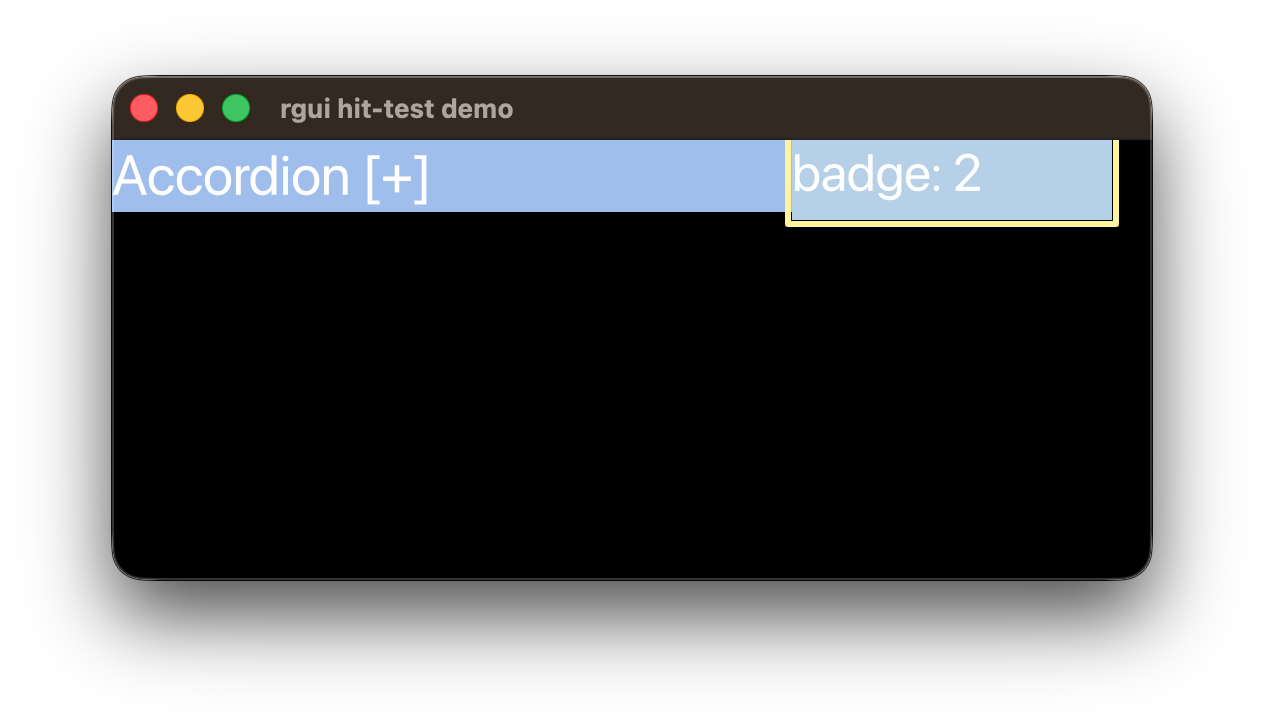
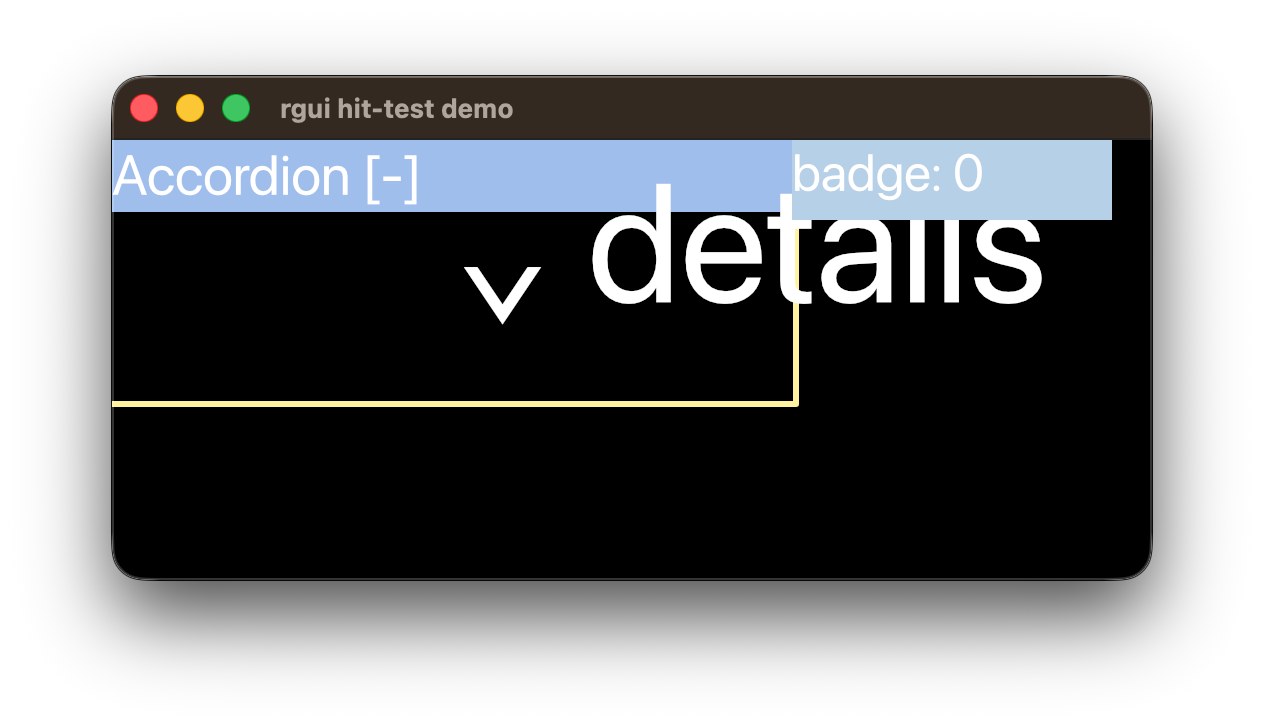
test(rgui): D21-2 分层诊断脚本自检资产入库(窗口定位/Quartz探测/模态点击辅助) + rgui_input_test.py D22 strip适配 + d21_t1 截图

diff --git a/tools/qa/rgui_input_test.py b/tools/qa/rgui_input_test.py
@@ -103,7 +103,12 @@ def read_log(path):
     if not path or not os.path.exists(path):
         return ""
     with open(path, "r", encoding="utf-8", errors="replace") as f:
-        return f.read()
+        text = f.read()
+    # D22：剥 tracing 前缀（若含），保持现有正则零改动。无前缀则 no-op。
+    if text.splitlines() and re.search(r'rgui_test_signal|INFO|WARN|ERROR.*\b', text.splitlines()[0]):
+        stripped = "\n".join(_strip_tracing(l) for l in text.splitlines())
+        return stripped
+    return text
 
 
 # ---------------- 窗口定位 + 激活/raise ----------------
@@ -205,6 +210,28 @@ def tab_key(shift=False):
 
 
 # ---------------- 分层诊断（核心） ----------------
+# D22 tracing 前缀剥离（可选：dev 用 tracing info!(target="rgui_test_signal", message=<token>)
+# 且 fmt 渲染含级别/时间戳前缀时启用；若 message=原 token 零前缀则此函数 no-op）。
+# 集中在此，不扩散到各 parse（保持 detect_layer 等正则零改动）。
+import re as _re
+_TRACING_RE = _re.compile(r'^.*?(?:rgui_test_signal|rgui)\s*[:=]\s*')  # 剥 "2026-.. INFO rgui_test_signal: message=" 前缀
+
+
+def _strip_tracing(line):
+    """剥掉 tracing fmt 前缀（时间戳/级别/target: message=），保留 message 原文供现有正则匹配。
+    若 line 不含前缀则原样返回（零改动路径 no-op）。"""
+    if not line:
+        return line
+    m = _re.match(r'^(?:\d{4}-\d{2}-\d{2}.*?)?(?:TRACE|DEBUG|INFO|WARN|ERROR)\S*\s*(?:\w*[_\w]*\s*[:=]\s*)*', line)
+    if m:
+        return line[m.end():]  # 剥到 message 正文
+    # 兜底：剥 "rgui_test_signal:" / "target=..:" 前缀
+    m2 = _re.match(r'^.*?(?:rgui_test_signal|message)[:=]\s*', line)
+    if m2:
+        return line[m2.end():]
+    return line
+
+
 # 按 fail_layer 生成纯文本排查建议（P2-3：建议无论如何不悬空）
 SUGGEST_BY_LAYER = {
     "L1": "脚本环境问题：检查 AXIsProcessTrusted() 是否授权(系统设置→隐私与安全→辅助功能)；CoreGraphics 是否可加载(依赖 ApplicationServices)；确认不是脚本运行环境问题。",

diff --git a/tools/qa/d21_modal_click.py b/tools/qa/d21_modal_click.py
@@ -1,0 +1,30 @@
+#!/usr/bin/env python3
+# 独立测 d20_modal: 激活 + 点 modal 按钮中心(rect 400,0,400,60 => 逻辑(600,30)) + 读日志
+import ctypes, sys, time, re, subprocess
+sys.path.insert(0, "tools/qa")
+import rgui_input_test as R
+
+pid = 4625
+print("activate:", R.activate_app(pid), "raise:", R.raise_window(pid))
+time.sleep(0.6)
+
+# 读 hit-region modul + win-frame
+log = open("/tmp/rgui_modal.log").read()
+mf = re.search(r'\[win-frame\] origin=\(([-0-9.]+),\s*([-0-9.]+)\) size=\(([-0-9.]+),\s*([-0-9.]+)\) scale=([-0-9.]+)', log)
+mr = re.search(r'id=200 modal rect=\(([-0-9.]+),\s*([-0-9.]+),\s*([-0-9.]+),\s*([-0-9.]+)\)', log)
+print("win-frame:", mf.groups() if mf else "none", "modal rect:", mr.groups() if mr else "none")
+ox, oy, sw, sh, scale = [float(x) for x in mf.groups()]
+rx, ry, rw, rh = [float(x) for x in mr.groups()]
+cx, cy = rx + rw/2.0, ry + rh/2.0
+# 用 to_screen 逻辑: bounds + titlebar + rect中心(point)
+bounds = (700.0, 207.0, 520.0, 252.0)
+wf = {"origin": (ox, oy), "size": (sw, sh), "scale": scale}
+pt = R.to_screen(wf, {"center": (cx, cy)}, bounds)
+print(f"modal center 逻辑({cx},{cy}) -> screen point {pt}")
+start = len(open("/tmp/rgui_modal.log").read().splitlines())
+R.click_at(pt)
+time.sleep(0.6)
+new = open("/tmp/rgui_modal.log").read().splitlines()[start:]
+print("=== 点击后新增 ===")
+for n in new:
+    print(" ", n)

diff --git a/tools/qa/d21_modal_owner.py b/tools/qa/d21_modal_owner.py
@@ -1,0 +1,10 @@
+import Quartz
+wins = Quartz.CGWindowListCopyWindowInfo(
+    Quartz.kCGWindowListOptionOnScreenOnly | Quartz.kCGWindowListExcludeDesktopElements,
+    Quartz.kCGNullWindowID)
+for w in wins:
+    n = str(w.get("kCGWindowOwnerName", ""))
+    if "modal" in n or "d20" in n:
+        b = w["kCGWindowBounds"]
+        print("owner:", n, "id:", w.get("kCGWindowNumber"), "pid:", w.get("kCGWindowOwnerPID"),
+              "bounds:", b["X"], b["Y"], b["Width"], b["Height"])

diff --git a/tools/qa/d21_check_quartz.py b/tools/qa/d21_check_quartz.py
@@ -1,0 +1,11 @@
+import Quartz, AppKit
+print("Quartz/AppKit OK")
+# 试读窗口
+wins = Quartz.CGWindowListCopyWindowInfo(
+    Quartz.kCGWindowListOptionOnScreenOnly | Quartz.kCGWindowListExcludeDesktopElements,
+    Quartz.kCGNullWindowID)
+for w in wins:
+    if "window_demo" in str(w.get("kCGWindowOwnerName", "")):
+        b = w["kCGWindowBounds"]
+        print("bounds:", b["X"], b["Y"], b["Width"], b["Height"], "pid:", w.get("kCGWindowOwnerPID"))
+        break

diff --git a/tools/qa/d21_get_winid.py b/tools/qa/d21_get_winid.py
@@ -1,0 +1,8 @@
+import Quartz
+wins = Quartz.CGWindowListCopyWindowInfo(
+    Quartz.kCGWindowListOptionOnScreenOnly | Quartz.kCGWindowListExcludeDesktopElements,
+    Quartz.kCGNullWindowID)
+for w in wins:
+    if "window_demo" in str(w.get("kCGWindowOwnerName", "")):
+        print(w["kCGWindowNumber"])
+        break
